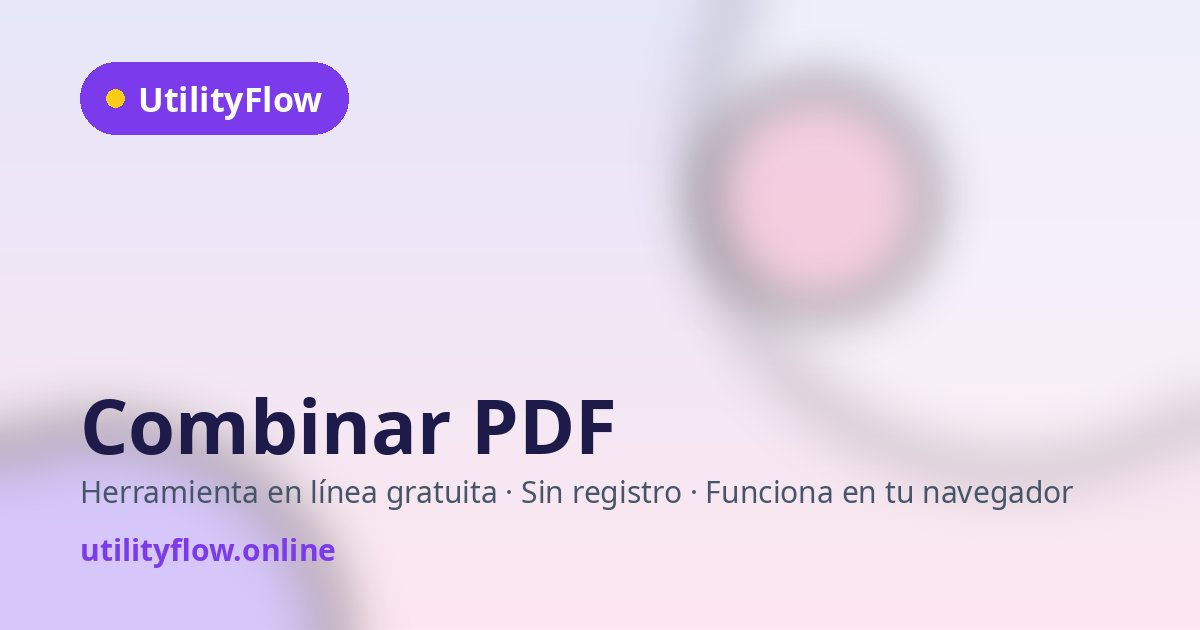
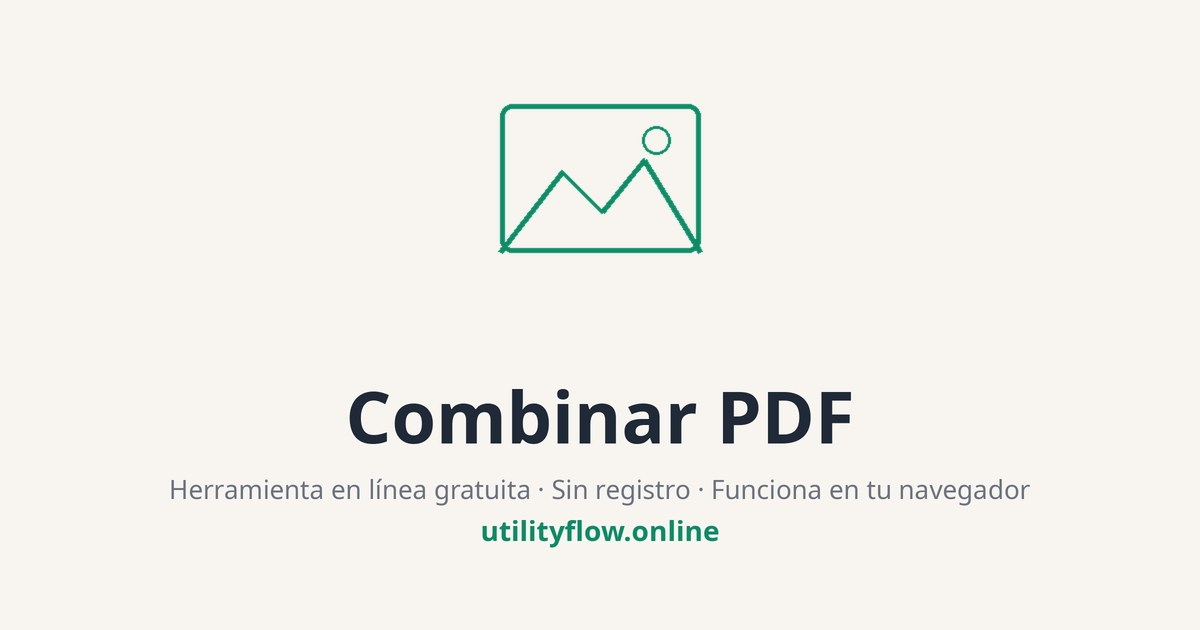
redesign: regenerate OG preview images in the new theme (23 files)

Changed region(s): [[0.0, 0.0, 1.0, 1.0], [0.0617, 0.0905, 0.3083, 0.2413]]

diff --git a/scripts/generate-og-images.py b/scripts/generate-og-images.py
@@ -1,0 +1,281 @@
+#!/usr/bin/env python3
+"""Regenerate UtilityFlow OG (link preview) images in the MINIMALIST
+redesign theme (2026-11-21).
+
+Usage:
+    python3 scripts/generate-og-images.py
+
+Output: 23 JPEG files (1200x630, quality 88) written over the existing
+files at identical paths, so og:image URLs do not change:
+  - public/og-image.jpg                 (default / homepage card)
+  - public/og/<tool>.jpg                (8 top tools)
+  - public/og/<category>.jpg            (7 categories)
+  - public/og/tools.jpg                 (all-tools directory)
+  - public/og/de/<tool>.jpg             (3 localized, German)
+  - public/og/es/<tool>.jpg             (3 localized, Spanish)
+
+Visual language (reused from scripts/generate-blog-images.py, the
+approved minimalist theme): flat warm off-white #F8F5F0 background,
+thin green (#0E8A66) line-art icons, centred dark title, muted subline,
+green domain. No gradients, no blobs, no purple. Pillow only; no
+Chromium, no downloads (Inter is NOT installed — Noto Sans, as in the
+blog script).
+
+Titles are sourced from the repo, never guessed:
+  - EN tool names: src/registry/batches/* (TOOLS_REGISTRY `name` field)
+  - EN category names: src/registry/categories.ts (`name` field)
+  - de/es tool names: src/locales/<lang>/tools/batch*.ts
+    (`<lang>_BATCH_*_OVERRIDES` `name` field)
+  - de/es sublines: the established localized sublines from the
+    previous OG cards (the repo locale files carry no shared subline
+    string for these cards).
+
+Icon mapping reuses the blog script's ICON_RULES, matched against the
+FULL tool slug (the blog script strips a trailing "-<type>" segment,
+which would drop "pdf" from "merge-pdf"). Category icons are explicit:
+text-writing->document, calculators->calculator, image-file->image,
+pdf->image, developer->grid (brand mark), social-media->image,
+seo->document.
+"""
+
+import importlib.util
+import os
+import sys
+
+from PIL import Image, ImageDraw, ImageFont
+
+_HERE = os.path.dirname(os.path.abspath(__file__))
+_BLOG = os.path.join(_HERE, "generate-blog-images.py")
+_spec = importlib.util.spec_from_file_location("generate_blog_images", _BLOG)
+gb = importlib.util.module_from_spec(_spec)
+_spec.loader.exec_module(gb)
+
+W, H = 1200, 630
+SS = gb.SS  # 2x supersampling, as in the blog script
+BG = gb.BG
+GREEN = gb.GREEN
+GREEN_SOFT = gb.GREEN_SOFT
+GREY = gb.GREY
+DARK = gb.DARK
+MUTED = gb.MUTED
+DOMAIN = gb.DOMAIN
+
+FONT_BOLD = gb.FONT_BOLD
+FONT_REGULAR = gb.FONT_REGULAR
+
+TOOL_SUBLINE = "Free online tool \u00b7 No sign-up \u00b7 Runs in your browser"
+CATEGORY_SUBLINE = "Free online tools \u00b7 No sign-up \u00b7 Runs in your browser"
+DE_SUBLINE = "Kostenloses Online-Tool \u00b7 Keine Anmeldung \u00b7 L\u00e4uft in Ihrem Browser"
+ES_SUBLINE = "Herramienta en l\u00ednea gratuita \u00b7 Sin registro \u00b7 Funciona en tu navegador"
+
+# ---------------------------------------------------------------------------
+# Jobs. Titles verified against the repo on 2026-11-21 (see module docstring
+# for sources). No removed tools, no "88" anywhere: the live count is 83.
+# ---------------------------------------------------------------------------
+
+# (tool id, EN display name) — registry `name` field.
+TOOLS = [
+    ("word-counter", "Word Counter"),
+    ("merge-pdf", "Merge PDF"),
+    ("image-compressor", "Image Compressor"),
+    ("percentage-calculator", "Percentage Calculator"),
+    ("qr-code-generator", "QR Code Generator"),
+    ("password-generator", "Cryptographic Password & Passphrase Generator"),
+    ("age-calculator", "Age Calculator"),
+    ("case-converter", "Case Converter"),
+]
+
+# (category id, EN display name, icon key) — categories.ts `name` field.
+CATEGORIES = [
+    ("text-writing", "Text & Writing Tools", "document"),
+    ("developer", "Developer Tools", "grid"),
+    ("calculators", "Calculators", "calculator"),
+    ("social-media", "Social Media Tools", "image"),
+    ("pdf", "PDF Tools", "image"),
+    ("seo", "SEO Tools", "document"),
+    ("image-file", "Image & File Tools", "image"),
+]
+
+# (lang, tool id, localized display name, localized subline)
+LOCALIZED = [
+    ("de", "word-counter", "W\u00f6rterz\u00e4hler", DE_SUBLINE),
+    ("de", "merge-pdf", "PDF zusammenf\u00fcgen", DE_SUBLINE),
+    ("de", "image-compressor", "Bild-Kompressor", DE_SUBLINE),
+    ("es", "word-counter", "Contador de Palabras", ES_SUBLINE),
+    ("es", "merge-pdf", "Combinar PDF", ES_SUBLINE),
+    ("es", "image-compressor", "Compresor de Im\u00e1genes", ES_SUBLINE),
+]
+
+_ICON_BY_KEY = {
+    "shield-key": gb.icon_shield_key,
+    "qr": gb.icon_qr,
+    "image": gb.icon_image,
+    "calculator": gb.icon_calculator,
+    "document": gb.icon_document,
+    "grid": gb.icon_grid,
+}
+
+
+def icon_for_tool(slug):
+    """Blog-script icon rules, matched against the FULL slug."""
+    for keywords, fn in gb.ICON_RULES:
+        if any(k in slug for k in keywords):
+            return fn
+    return gb.icon_grid
+
+
+def _paste_icon(img, icon_fn):
+    """Draw the 1x line-art icon on a layer, upscale, paste centred."""
+    layer = Image.new("RGBA", (480, 480), (0, 0, 0, 0))
+    icon_draw = ImageDraw.Draw(layer)
+    icon_fn(icon_draw, 240, 240, w=5)
+    layer = layer.resize((480 * SS, 480 * SS), Image.LANCZOS)
+    img.paste(layer, ((W * SS - 480 * SS) // 2, int(178 * SS) - 240 * SS), layer)
+
+
+def render_card(title, lang, icon_fn, subline):
+    """Tool / category / localized card — the blog card's layout exactly:
+    centred line-art icon, centred title block, muted subline, green domain."""
+    img = Image.new("RGB", (W * SS, H * SS), BG)
+    _paste_icon(img, icon_fn)
+    draw = ImageDraw.Draw(img)
+
+    title_font, lines = gb.fit_title(
+        draw, title, lang, max_width=1020 * SS, max_lines=3
+    )
+    line_h = int(title_font.size * 1.18)
+    total_h = line_h * len(lines)
+    sub_font = gb.font_for(lang, 26 * SS, bold=False)
+    dom_font = gb.font_for(lang, 28 * SS, bold=True)
+    block_h = total_h + 20 * SS + 26 * SS + 14 * SS + 28 * SS
+    y = int(300 * SS + (306 * SS - block_h) // 2)
+    for line in lines:
+        tw = draw.textlength(line, font=title_font)
+        draw.text(((W * SS - tw) // 2, y), line, font=title_font, fill=DARK)
+        y += line_h
+    y += 20 * SS
+    sw = draw.textlength(subline, font=sub_font)
+    draw.text(((W * SS - sw) // 2, y), subline, font=sub_font, fill=MUTED)
+    y += 26 * SS + 14 * SS
+    dw = draw.textlength(DOMAIN, font=dom_font)
+    draw.text(((W * SS - dw) // 2, y), DOMAIN, font=dom_font, fill=GREEN)
+    return img.resize((W, H), Image.LANCZOS)
+
+
+def _draw_logo_mark(draw, x, y, size):
+    """Filled green rounded-square logo mark with 4 white squares —
+    exactly the header logo / public/favicon.svg proportions (32x32
+    viewBox: rounded rect, four 8x8 squares at (7,7), (17,7), (7,17),
+    (17,17)), scaled to `size`."""
+    draw.rounded_rectangle(
+        [x, y, x + size, y + size], radius=size * 7 // 32, fill=GREEN
+    )
+    sq = size * 8 // 32
+    margin = size * 7 // 32
+    gap = size * 2 // 32
+    for dx in (margin, margin + sq + gap):
+        for dy in (margin, margin + sq + gap):
+            draw.rounded_rectangle(
+                [x + dx, y + dy, x + dx + sq, y + dy + sq],
+                radius=max(2, size // 32),
+                fill=(255, 255, 255),
+            )
+
+
+def _fit_fixed_lines(draw, lines, max_width, size_hi=72, size_lo=44):
+    """Largest bold size at which every fixed line fits max_width."""
+    for size in range(size_hi * SS, (size_lo - 1) * SS, -2 * SS):
+        font = gb.font_for("en", size, bold=True)
+        if all(draw.textlength(line, font=font) <= max_width for line in lines):
+            return font
+    return gb.font_for("en", size_lo * SS, bold=True)
+
+
+def render_default_card():
+    """Homepage / default card — brand-led: logo mark + UtilityFlow
+    wordmark, two-line headline (dark + green), categories line, domain."""
+    img = Image.new("RGB", (W * SS, H * SS), BG)
+    draw = ImageDraw.Draw(img)
+
+    # Brand row: logo mark + wordmark, centred as one row.
+    logo = 88 * SS
+    word_font = gb.font_for("en", 68 * SS, bold=True)
+    wordmark = "UtilityFlow"
+    ww = draw.textlength(wordmark, font=word_font)
+    row_w = logo + 20 * SS + ww
+    row_x = (W * SS - row_w) // 2
+    row_y = 104 * SS
+    _draw_logo_mark(draw, row_x, row_y, logo)
+    draw.text(
+        (row_x + logo + 20 * SS, row_y + (logo - word_font.size) // 2 - 4 * SS),
+        wordmark, font=word_font, fill=DARK,
+    )
+
+    # Headline: two fixed lines, dark then green.
+    head_lines = ["83 free online tools.", "Fast. Private. No sign-up."]
+    head_font = _fit_fixed_lines(draw, head_lines, max_width=1020 * SS)
+    line_h = int(head_font.size * 1.18)
+    y = 268 * SS
+    for line, color in zip(head_lines, (DARK, GREEN)):
+        tw = draw.textlength(line, font=head_font)
+        draw.text(((W * SS - tw) // 2, y), line, font=head_font, fill=color)
+        y += line_h
+
+    # Categories line.
+    cat_font = gb.font_for("en", 28 * SS, bold=False)
+    cats = "Text \u00b7 Developer \u00b7 Calculators \u00b7 PDF \u00b7 SEO \u00b7 Images \u00b7 Social"
+    cw = draw.textlength(cats, font=cat_font)
+    draw.text(((W * SS - cw) // 2, 478 * SS), cats, font=cat_font, fill=MUTED)
+
+    # Domain.
+    dom_font = gb.font_for("en", 30 * SS, bold=True)
+    dw = draw.textlength(DOMAIN, font=dom_font)
+    draw.text(((W * SS - dw) // 2, 528 * SS), DOMAIN, font=dom_font, fill=GREEN)
+    return img.resize((W, H), Image.LANCZOS)
+
+
+def save_jpeg(img, path):
+    img.save(path, format="JPEG", quality=88, optimize=True)
+    print(f"{path}: {os.path.getsize(path)} bytes")
+
+
+def main():
+    root = os.path.join(_HERE, "..", "public")
+    out = []
+
+    # 1. Default / homepage card.
+    p = os.path.join(root, "og-image.jpg")
+    save_jpeg(render_default_card(), p)
+    out.append(p)
+
+    # 2. Top tools.
+    for tool_id, title in TOOLS:
+        p = os.path.join(root, "og", f"{tool_id}.jpg")
+        save_jpeg(render_card(title, "en", icon_for_tool(tool_id), TOOL_SUBLINE), p)
+        out.append(p)
+
+    # 3. Categories (+ all-tools directory card, "All 83 Tools").
+    for cat_id, title, icon_key in CATEGORIES:
+        p = os.path.join(root, "og", f"{cat_id}.jpg")
+        save_jpeg(
+            render_card(title, "en", _ICON_BY_KEY[icon_key], CATEGORY_SUBLINE), p
+        )
+        out.append(p)
+    p = os.path.join(root, "og", "tools.jpg")
+    save_jpeg(
+        render_card("All 83 Tools", "en", gb.icon_grid, CATEGORY_SUBLINE), p
+    )
+    out.append(p)
+
+    # 4. Localized tool cards (de, es).
+    for lang, tool_id, title, subline in LOCALIZED:
+        p = os.path.join(root, "og", lang, f"{tool_id}.jpg")
+        save_jpeg(render_card(title, lang, icon_for_tool(tool_id), subline), p)
+        out.append(p)
+
+    print(f"done: {len(out)} images")
+    return out
+
+
+if __name__ == "__main__":
+    main()
